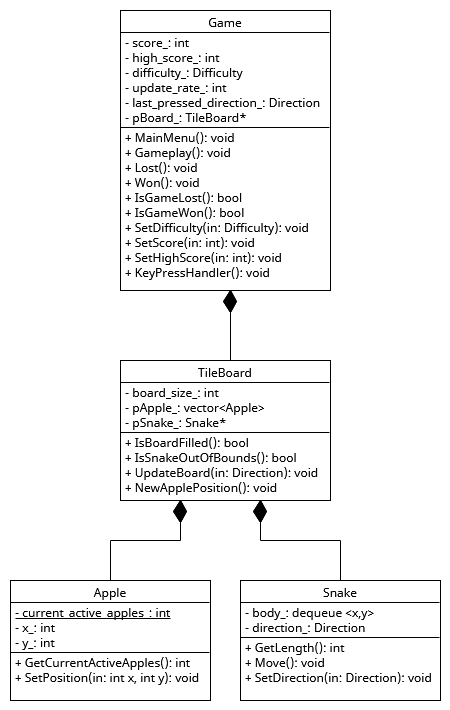
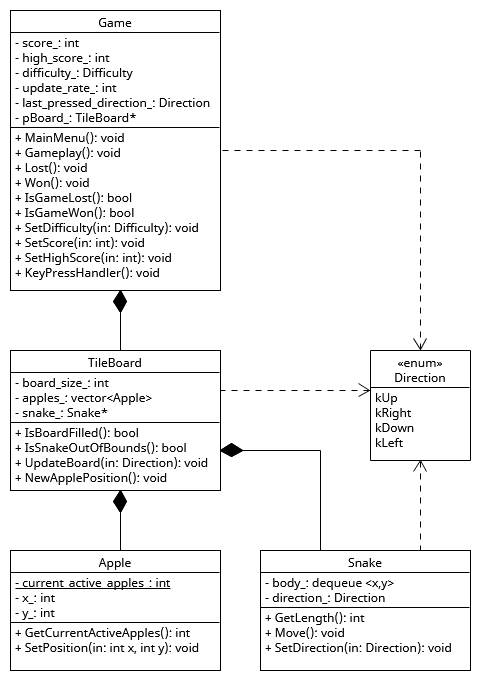
Added class members and methods

diff --git a/src/game.cpp b/src/game.cpp
@@ -1,0 +1,53 @@
+#include "game.h"
+
+Game::Game()
+{
+	this->score_ = 0;
+	this->high_score_ = 0;
+	this->difficulty_ = kEasy;
+	this->update_rate = 0;
+	this->last_pressed_direction_ = kRight;
+	this->board_ = std::unique_ptr<TileBoard>(new TileBoard(12));
+}
+
+void Game::KeyPressedHandler()
+{
+}
+
+void Game::MainMenu()
+{
+}
+
+void Game::Gameplay()
+{
+}
+
+void Game::Lost()
+{
+}
+
+void Game::Won()
+{
+}
+
+bool Game::IsGameLost()
+{
+    return false;
+}
+
+bool Game::IsGameWon()
+{
+    return false;
+}
+
+void Game::SetDifficulty(Difficulty _difficulty)
+{
+}
+
+void Game::SetScore(int _score)
+{
+}
+
+void Game::SetHighScore(int _high_score)
+{
+}

diff --git a/src/tileboard.cpp b/src/tileboard.cpp
@@ -1,0 +1,30 @@
+#include "tileboard.h"
+
+TileBoard::TileBoard(int _size)
+{
+    this->board_size_ = _size;
+    apples_.push_back(Apple());
+    snake_ = std::unique_ptr<Snake>(new Snake());
+}
+
+bool TileBoard::IsBoardFilled()
+{
+    return false;
+}
+
+bool TileBoard::IsSnakeOutOfBounds()
+{
+    return false;
+}
+
+void TileBoard::UpdateBoard(Direction _direction)
+{
+}
+
+void TileBoard::NewApplePosition()
+{
+}
+
+TileBoard::~TileBoard()
+{
+}

diff --git a/header/game.h b/header/game.h
@@ -1,6 +1,32 @@
 #pragma once
+#include<iostream>
 #include "tileboard.h"
+#include "direction.h"
+
+enum Difficulty {
+	kEasy,
+	kMedium,
+	kHard
+};
 
 class Game {
-
+private:
+	int score_;
+	int high_score_;
+	Difficulty difficulty_;
+	int update_rate;
+	Direction last_pressed_direction_;
+	std::unique_ptr<TileBoard> board_;
+public:
+	Game();
+	void KeyPressedHandler();
+	void MainMenu();
+	void Gameplay();
+	void Lost();
+	void Won();
+	bool IsGameLost();
+	bool IsGameWon();
+	void SetDifficulty(Difficulty _difficulty);
+	void SetScore(int _score);
+	void SetHighScore(int _high_score);
 };

diff --git a/src/snake.cpp b/src/snake.cpp
@@ -1,0 +1,24 @@
+#include "snake.h"
+
+Snake::Snake()
+{
+    this->body_ = { {0,0} };
+    this->direction_ = kLeft;
+}
+
+int Snake::GetLength()
+{
+    return 0;
+}
+
+void Snake::Move()
+{
+}
+
+void Snake::SetDirection(Direction _direction)
+{
+}
+
+Snake::~Snake()
+{
+}

diff --git a/src/apple.cpp b/src/apple.cpp
@@ -1,0 +1,23 @@
+#include "apple.h"
+
+int Apple::current_active_apples_ = 0;
+
+Apple::Apple()
+{
+	Apple::current_active_apples_++;
+	this->position_ = { 0,0 };
+}
+
+int Apple::GetCurrentActiveApples()
+{
+	return 0;
+}
+
+void Apple::SetPosition(int _x, int _y)
+{
+}
+
+Apple::~Apple()
+{
+	Apple::current_active_apples_--;
+}

diff --git a/header/tileboard.h b/header/tileboard.h
@@ -1,7 +1,20 @@
 #pragma once
+#include <iostream>
+#include <vector>
 #include "snake.h"
 #include "apple.h"
+#include "direction.h"
 
 class TileBoard {
-
+private:
+	int board_size_;
+	std::vector<Apple> apples_;
+	std::unique_ptr<Snake> snake_;
+public:
+	TileBoard(int _size);
+	bool IsBoardFilled();
+	bool IsSnakeOutOfBounds();
+	void UpdateBoard(Direction _direction);
+	void NewApplePosition();
+	~TileBoard();
 };

diff --git a/header/snake.h b/header/snake.h
@@ -1,6 +1,16 @@
 #pragma once
-
+#include <iostream>
+#include <deque>
+#include "direction.h"
 
 class Snake {
-
+private:
+	std::deque<std::tuple<int, int>> body_;
+	Direction direction_;
+public:
+	Snake();
+	int GetLength();
+	void Move();
+	void SetDirection(Direction _direction);
+	~Snake();
 };

diff --git a/header/apple.h b/header/apple.h
@@ -1,5 +1,14 @@
 #pragma once
+#include <tuple>
 
 class Apple {
-
+protected:
+	static int current_active_apples_;
+private:
+	std::tuple<int, int> position_;
+public:
+	Apple();
+	int GetCurrentActiveApples();
+	void SetPosition(int _x, int _y);
+	~Apple();
 };

diff --git a/header/direction.h b/header/direction.h
@@ -1,0 +1,8 @@
+#pragma once
+
+enum Direction {
+	kUp,
+	kRight,
+	kDown,
+	kLeft
+};

diff --git a/src/snake_game.cpp b/src/snake_game.cpp
@@ -7,5 +7,4 @@
 int main()
 {
     std::unique_ptr<Game> game(new Game());
-    std::cout << "Hello World!\n";
 }